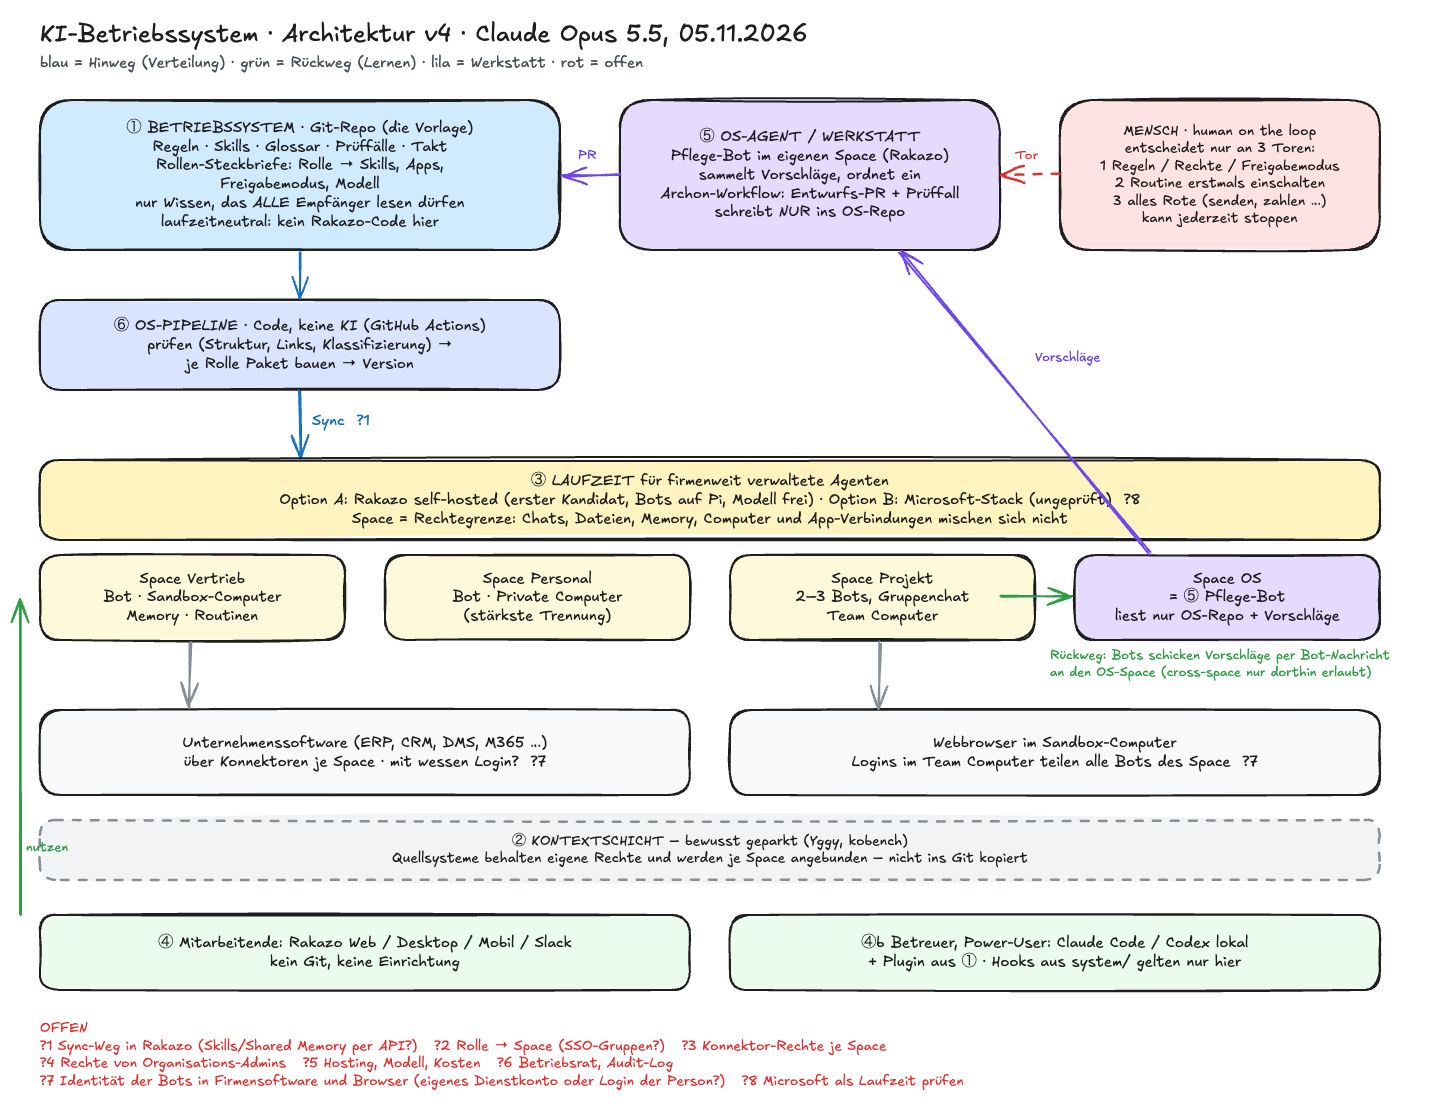
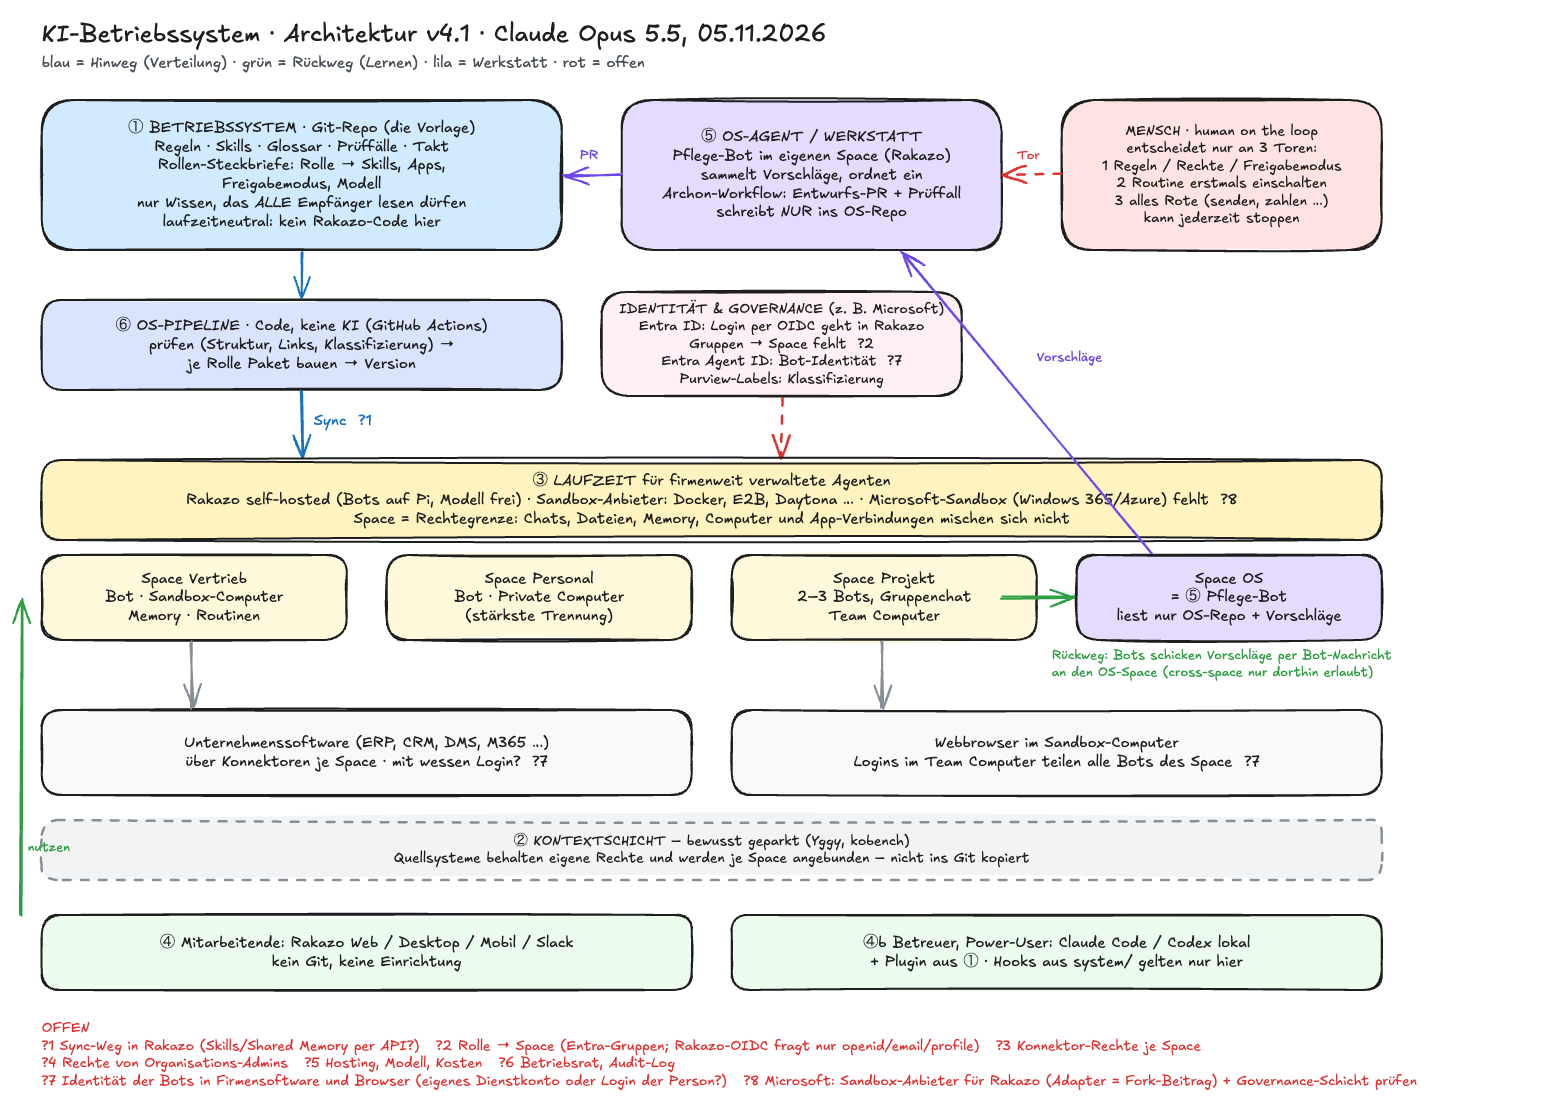
Doku: Microsoft als Governance und Sandbox-Anbieter in Rakazo, Skizze v4.1 (2026-11-05)

diff --git a/docs/architektur/bericht-2026-11-05.md b/docs/architektur/bericht-2026-11-05.md
@@ -209,3 +209,31 @@ ursprüngliche Fassung liegt in [skizze-tristan-2026-11-05.excalidraw](skizze-tr
      (`docs/fleet-management.md`). Die Verteilung bleibt Aufgabe der Pipeline (?1).
    - Archon behält die festen Abläufe (Vorschlag → Entwurfs-PR → Checks). Der OS-Bot ist dafür Eingang und
      Gesprächspartner.
+
+## 11. Korrektur Tristan: Microsoft innerhalb von Rakazo, nicht daneben (05.11.2026)
+
+Tristan: „Microsoft dachte ich eher für die sandboxed agents innerhalb Rakazo, das soll sich nicht
+ausschließen“, und damit vielleicht Frage ?2 beantworten, „weil dazu wahrscheinlich eine Menge Governance
+gehört“. Damit gilt §10 Punkt 1 („Option B Laufzeit“) nicht mehr. Bild: Skizze v4.1 (gleiche Datei, neuer
+Kasten „Identität & Governance“).
+
+Was in Rakazo belegt ist (Stand `abf3c0814`):
+- **Sandbox-Anbieter:** Docker, E2B, Novita, Daytona, Boat, boxd, CreateOS, Railway und Wuying. Wuying ist ein
+  vorhandener Windows-Cloud-Rechner von Alibaba. Einen Microsoft-Anbieter (Windows 365, Azure) gibt es nicht
+  (`docs/self-host-sandbox-providers.md`). Neue Anbieter folgen laut VISION gemeinsamen Verträgen und
+  Offline-Konformitätstests (`packages/adapter-kit`). **Ein Microsoft-Anbieter wäre also ein sauberer
+  Fork-Beitrag (?8)**, mit Wuying als Vorbild für Windows.
+- **Anmeldung:** generisches OpenID Connect (`docs/self-host-accounts.md`). Microsoft Entra ID funktioniert
+  darüber als Login. Rakazo fragt aber nur `openid email profile` ab, Gruppen oder Rollen werden nicht auf
+  Spaces übertragen. **?2 bleibt deshalb offen:** Die Gruppen kämen aus Entra, die Zuordnung Gruppe → Space
+  fehlt in Rakazo. Das wäre ein zweiter Beitragskandidat oder Aufgabe des Syncs (?1).
+
+Einschätzung aus Modellwissen, **nicht gegen aktuelle Microsoft-Doku geprüft:** Für die Governance
+bringt Microsoft passende Bausteine mit:
+- Entra-Gruppen für Rolle → Space
+- eigene Agenten-Identitäten (Entra Agent ID) für ?7
+- Purview-Vertraulichkeitslabels für die Klassifizierung, die der Pluginbau heute nicht beachtet
+
+Arbeitsentscheidung (Opus 5.5): Microsoft dient als **Identitäts- und Governance-Schicht** und als möglicher
+**Sandbox-Anbieter** in Rakazo. Es ersetzt weder Rakazo noch das Betriebssystem. Vor dem Bau eines Adapters
+prüft der nächste Agent die Microsoft-Doku zu Entra Agent ID und zu Windows-365- bzw. Azure-Sandboxes.
